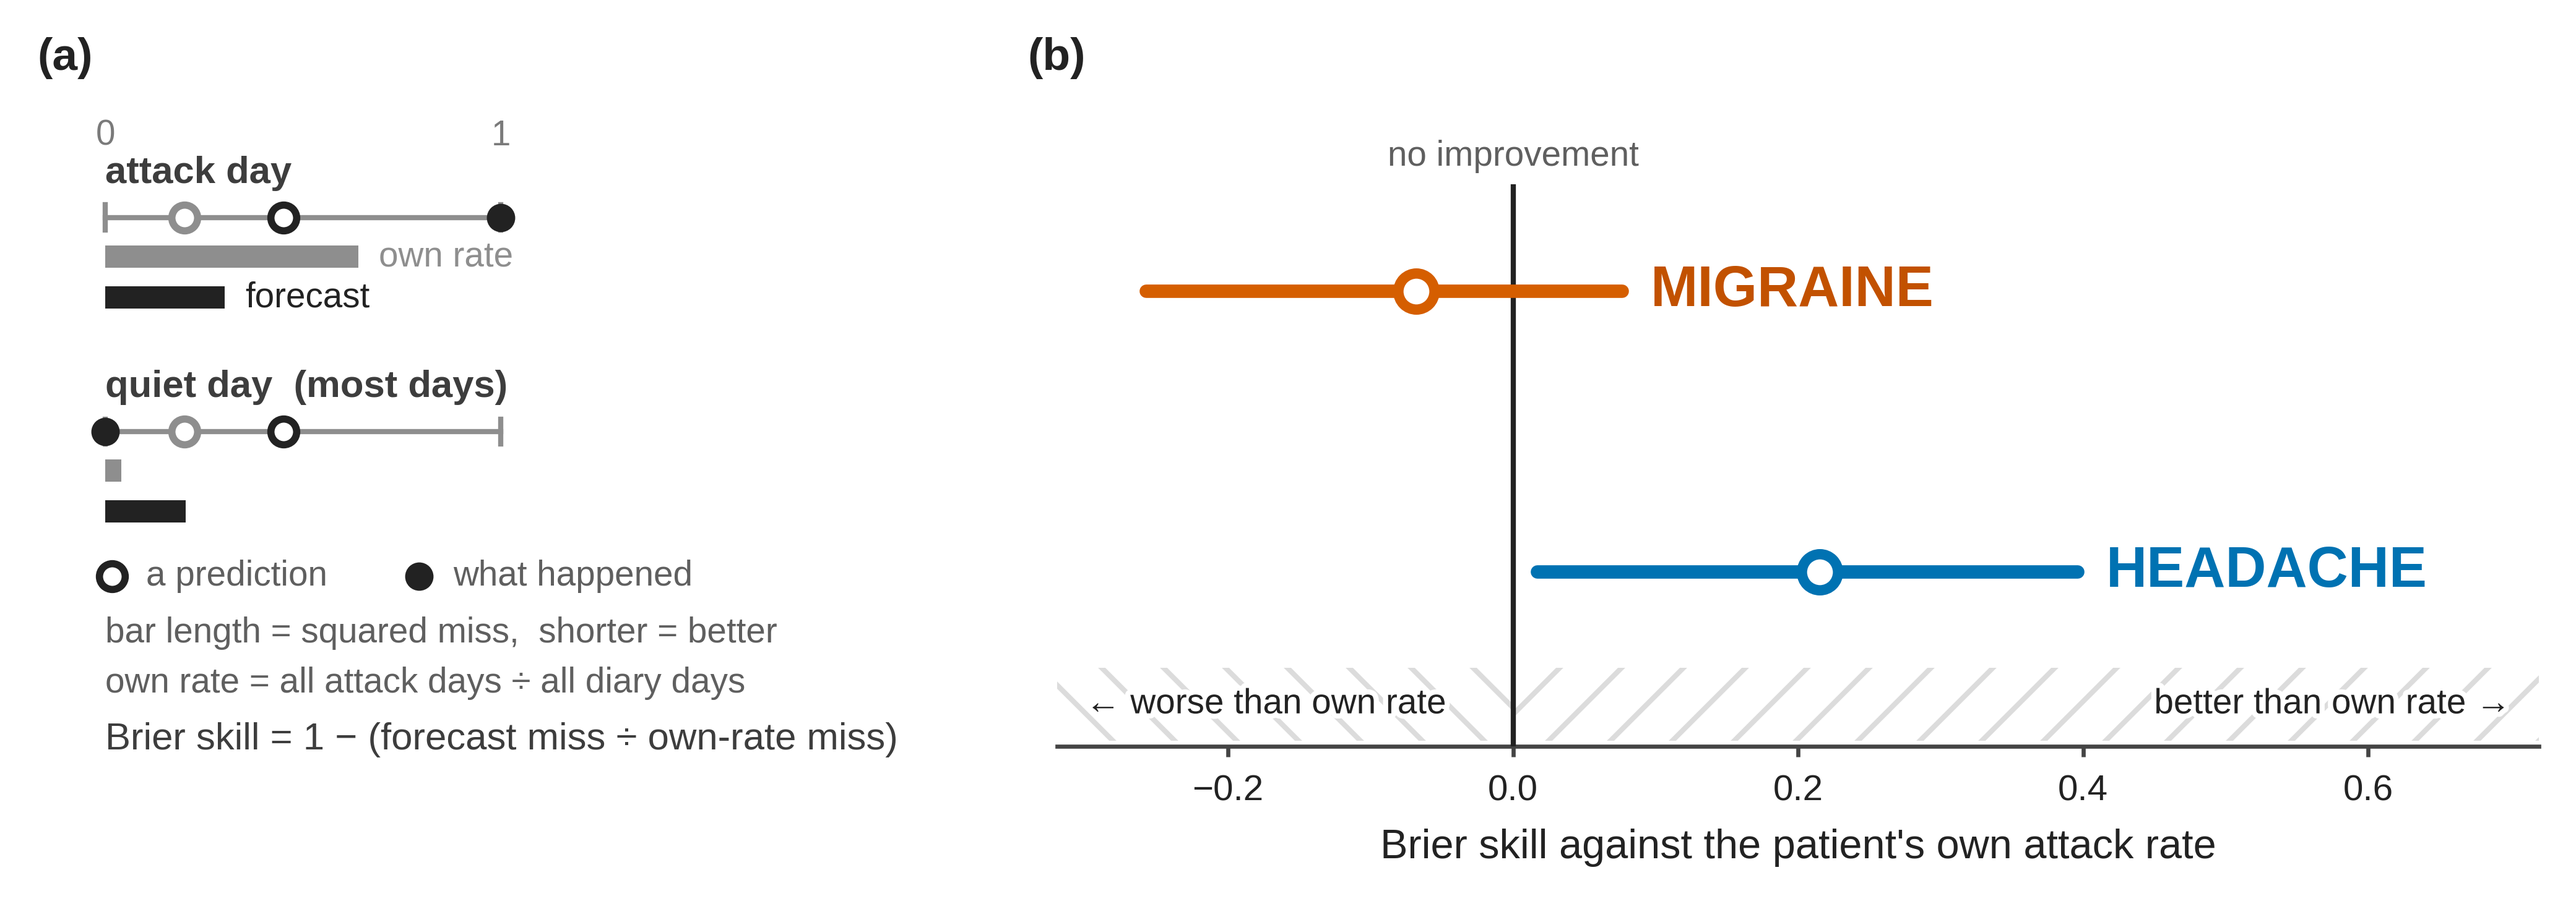
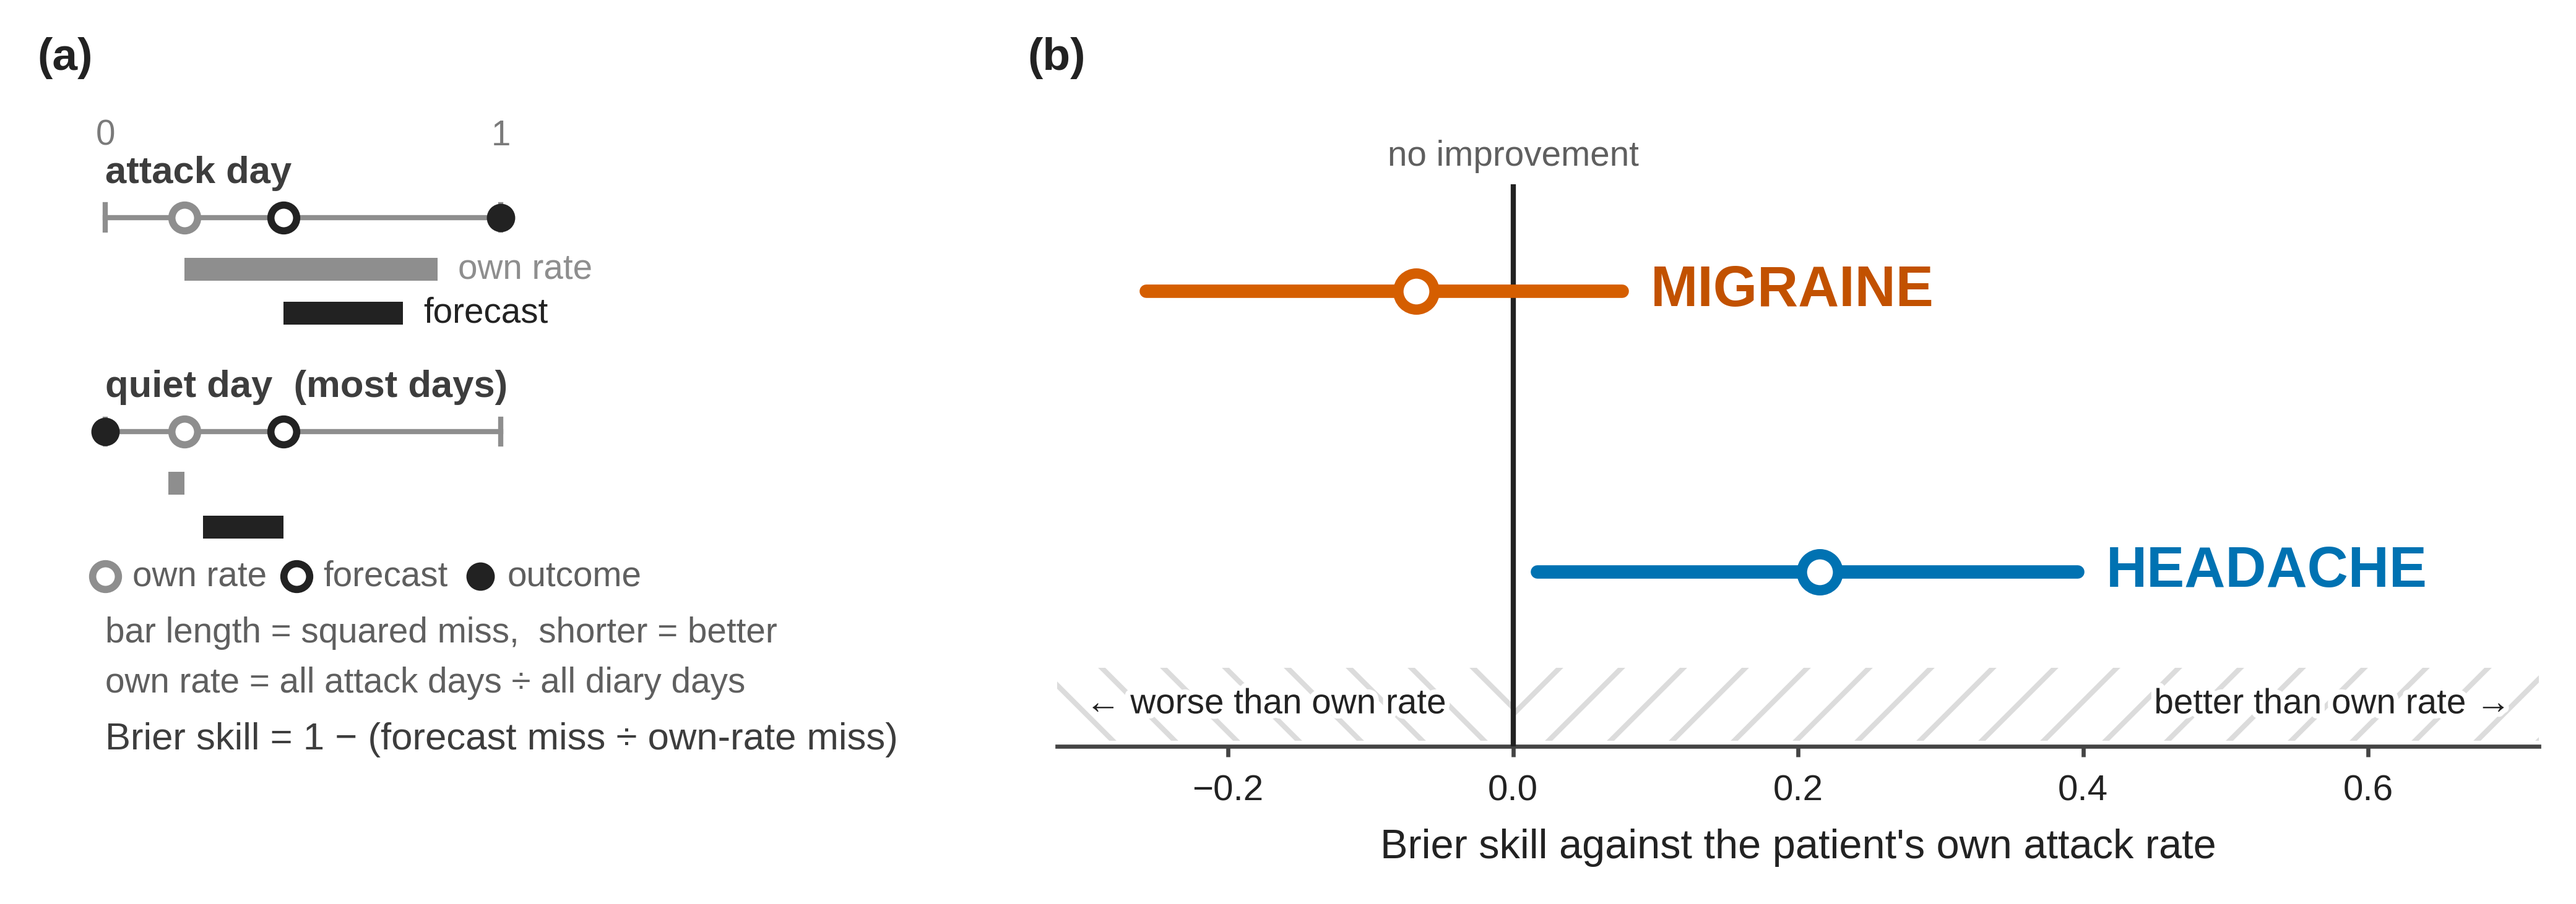
anch

Changed region(s): [[0.0312, 0.2462, 0.2499, 0.3694], [0.0312, 0.5233, 0.2811, 0.6772]]

diff --git a/docs/methodAndResults_diagramCreatorScripts/fig_m_evaluation_series.py b/docs/methodAndResults_diagramCreatorScripts/fig_m_evaluation_series.py
@@ -173,17 +173,25 @@ def _how_brier(ax):
         for q in (0.0, 1.0):
             ax.plot([px(q), px(q)], [y - 2, y + 2], color=A_MID, lw=1.0)
         ax.plot([px(outcome)], [y], "o", ms=5.5, mfc=A_INK, mec="none", zorder=4)
-        for q, col, dy, nm in ((OWN, A_MID, -8.0, "own rate"), (FC, A_INK, -14.5, "forecast")):
+        for q, col, dy, nm in ((OWN, A_MID, -10.0, "own rate"),
+                               (FC, A_INK, -17.0, "forecast")):
             ax.plot([px(q)], [y], "o", ms=5.0, mfc="white", mec=col, mew=1.4, zorder=4)
+            # anchored under its own dot and running toward the outcome, so the bar
+            # is unambiguously that dot's; its length is the squared miss
             w = (q - outcome) ** 2 * (x1 - x0)
-            ax.add_patch(Rectangle((x0, y + dy), w, 3.6, fc=col, ec="none", zorder=3))
+            a = px(q) if outcome > q else px(q) - w
+            ax.add_patch(Rectangle((a, y + dy), w, 3.6, fc=col, ec="none", zorder=3))
             if ticks:                               # name the bars once, top row only
-                _lab(ax, x0 + w + 3, y + dy + 1.8, nm, PT_FINE, col)
+                _lab(ax, a + w + 3, y + dy + 1.8, nm, PT_FINE, col)
     # the three circles carried no explanation at all
-    ax.plot([x0 + 1], [27], "o", ms=5.0, mfc="white", mec=A_INK, mew=1.4, zorder=4)
-    _lab(ax, x0 + 6, 27, "a prediction", PT_FINE, SECOND)
-    ax.plot([x0 + 46], [27], "o", ms=5.5, mfc=A_INK, mec="none", zorder=4)
-    _lab(ax, x0 + 51, 27, "what happened", PT_FINE, SECOND)
+    # all three marks on the rules, in the order they appear along it
+    # positions from the measured label widths (19.7, 18.3, 35.2 units) so each
+    # mark keeps ~4 units of clear space from the label before it
+    for mx, lx, mec, mfc, ms_, txt in ((x0, x0 + 4, A_MID, "white", 5.0, "own rate"),
+                                       (x0 + 28, x0 + 32, A_INK, "white", 5.0, "forecast"),
+                                       (x0 + 55, x0 + 59, "none", A_INK, 5.5, "outcome")):
+        ax.plot([mx], [27], "o", ms=ms_, mfc=mfc, mec=mec, mew=1.4, zorder=4)
+        _lab(ax, lx, 27, txt, PT_FINE, SECOND)
     # both rules apply to the whole panel, so they sit together at the foot
     _lab(ax, x0, 18, "bar length = squared miss,  shorter = better", PT_FINE, SECOND)
     _lab(ax, x0, 10, "own rate = all attack days \u00f7 all diary days", PT_FINE, SECOND)
